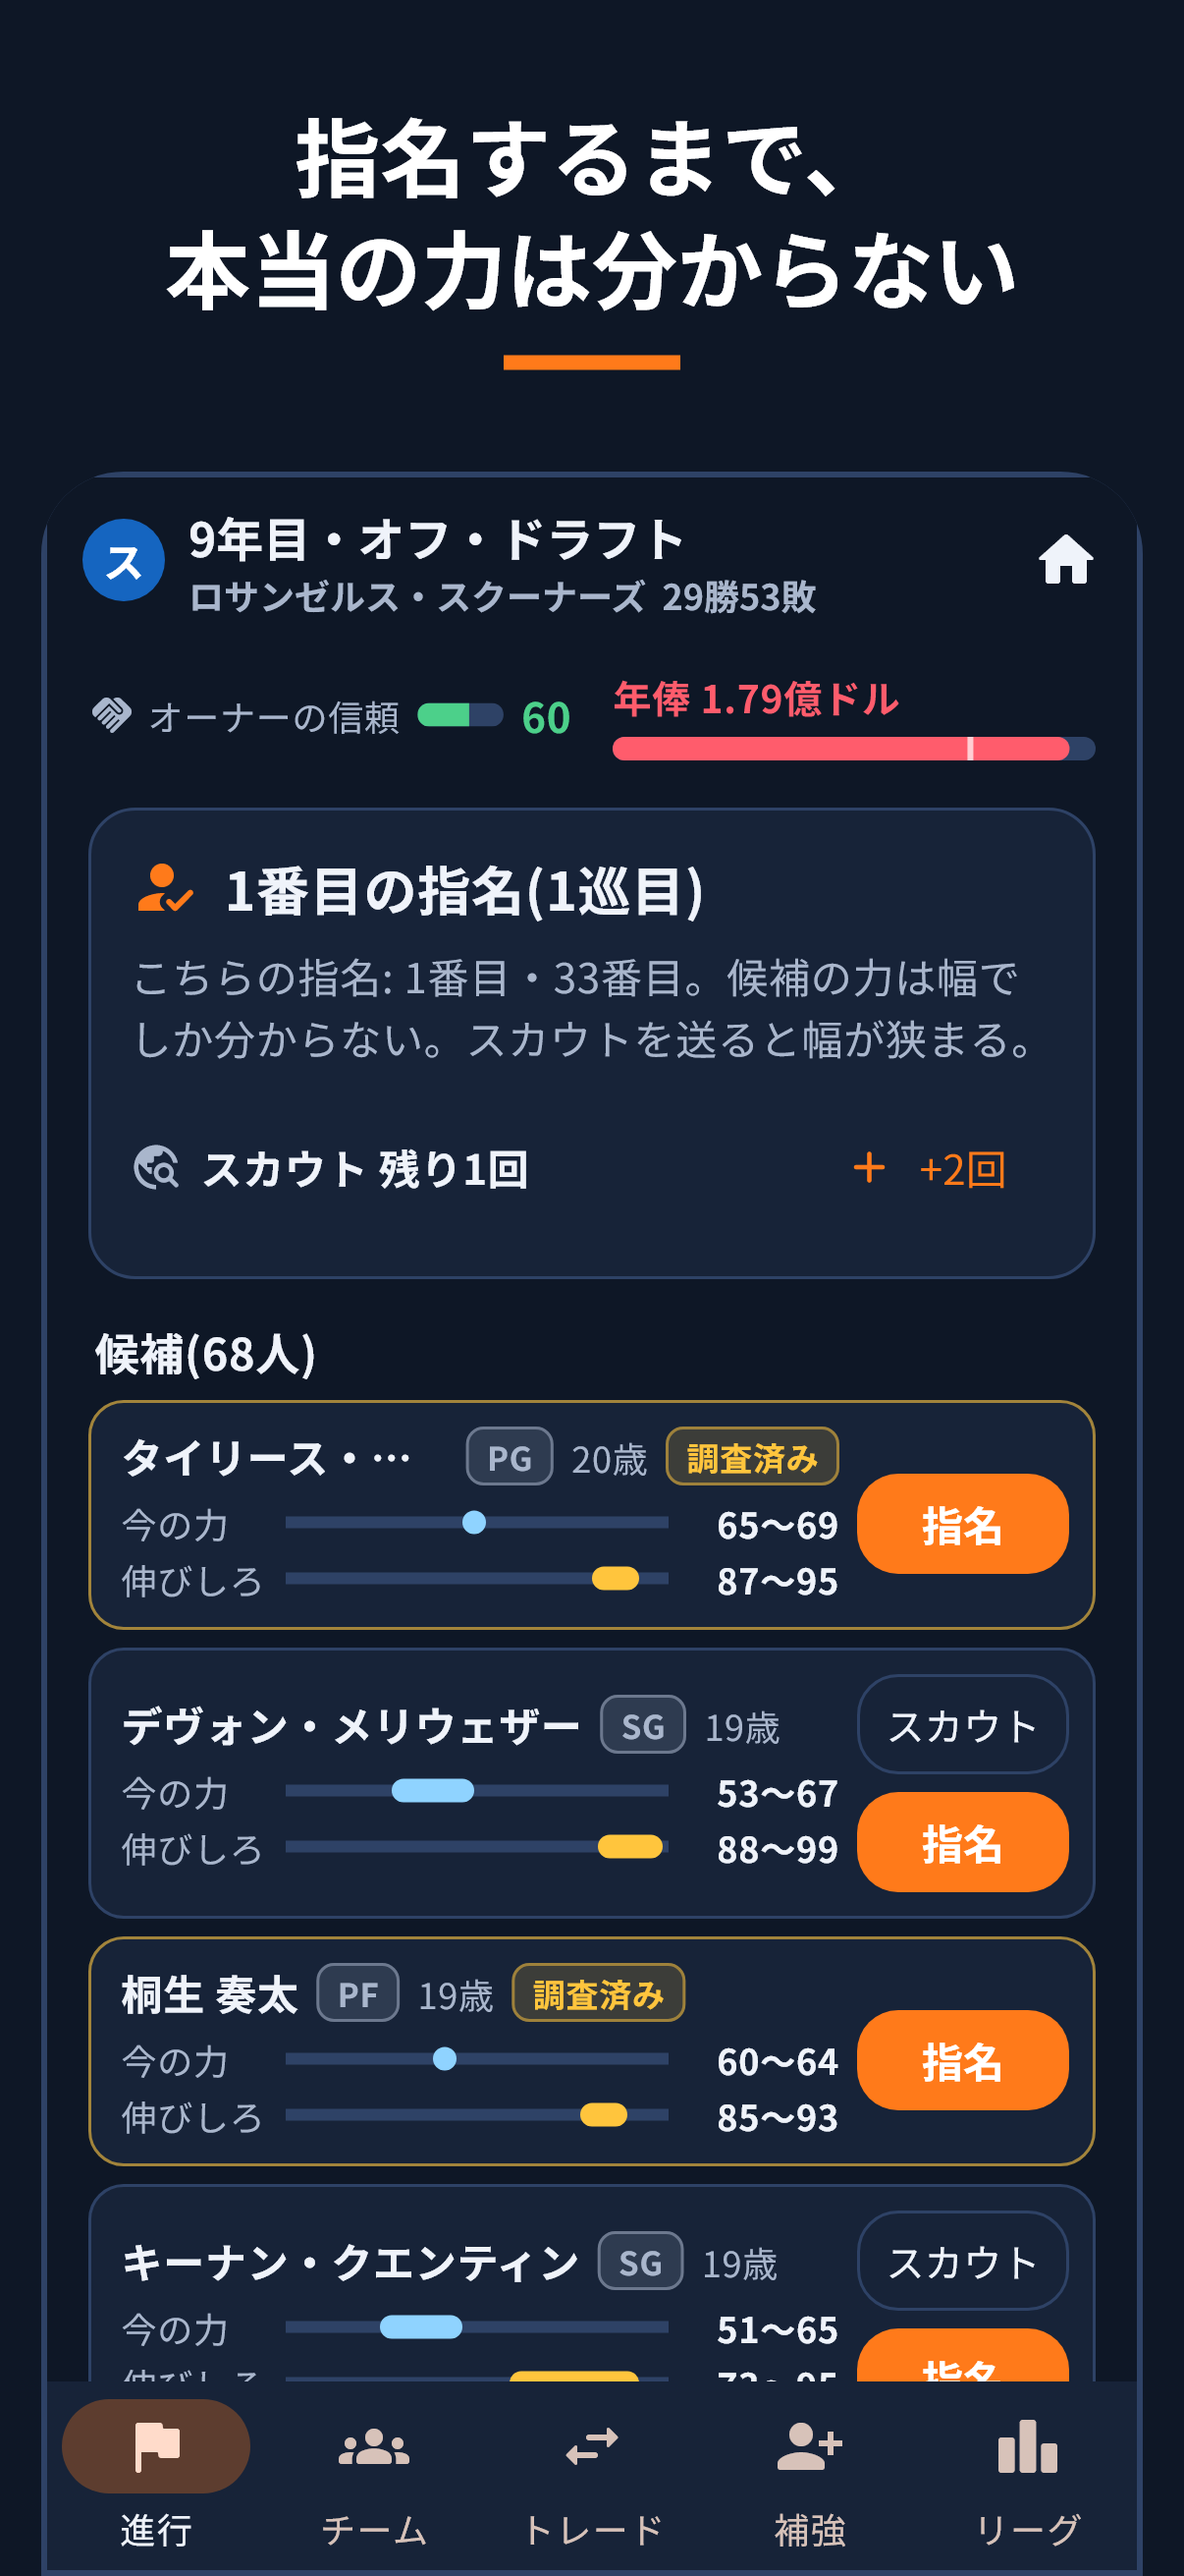
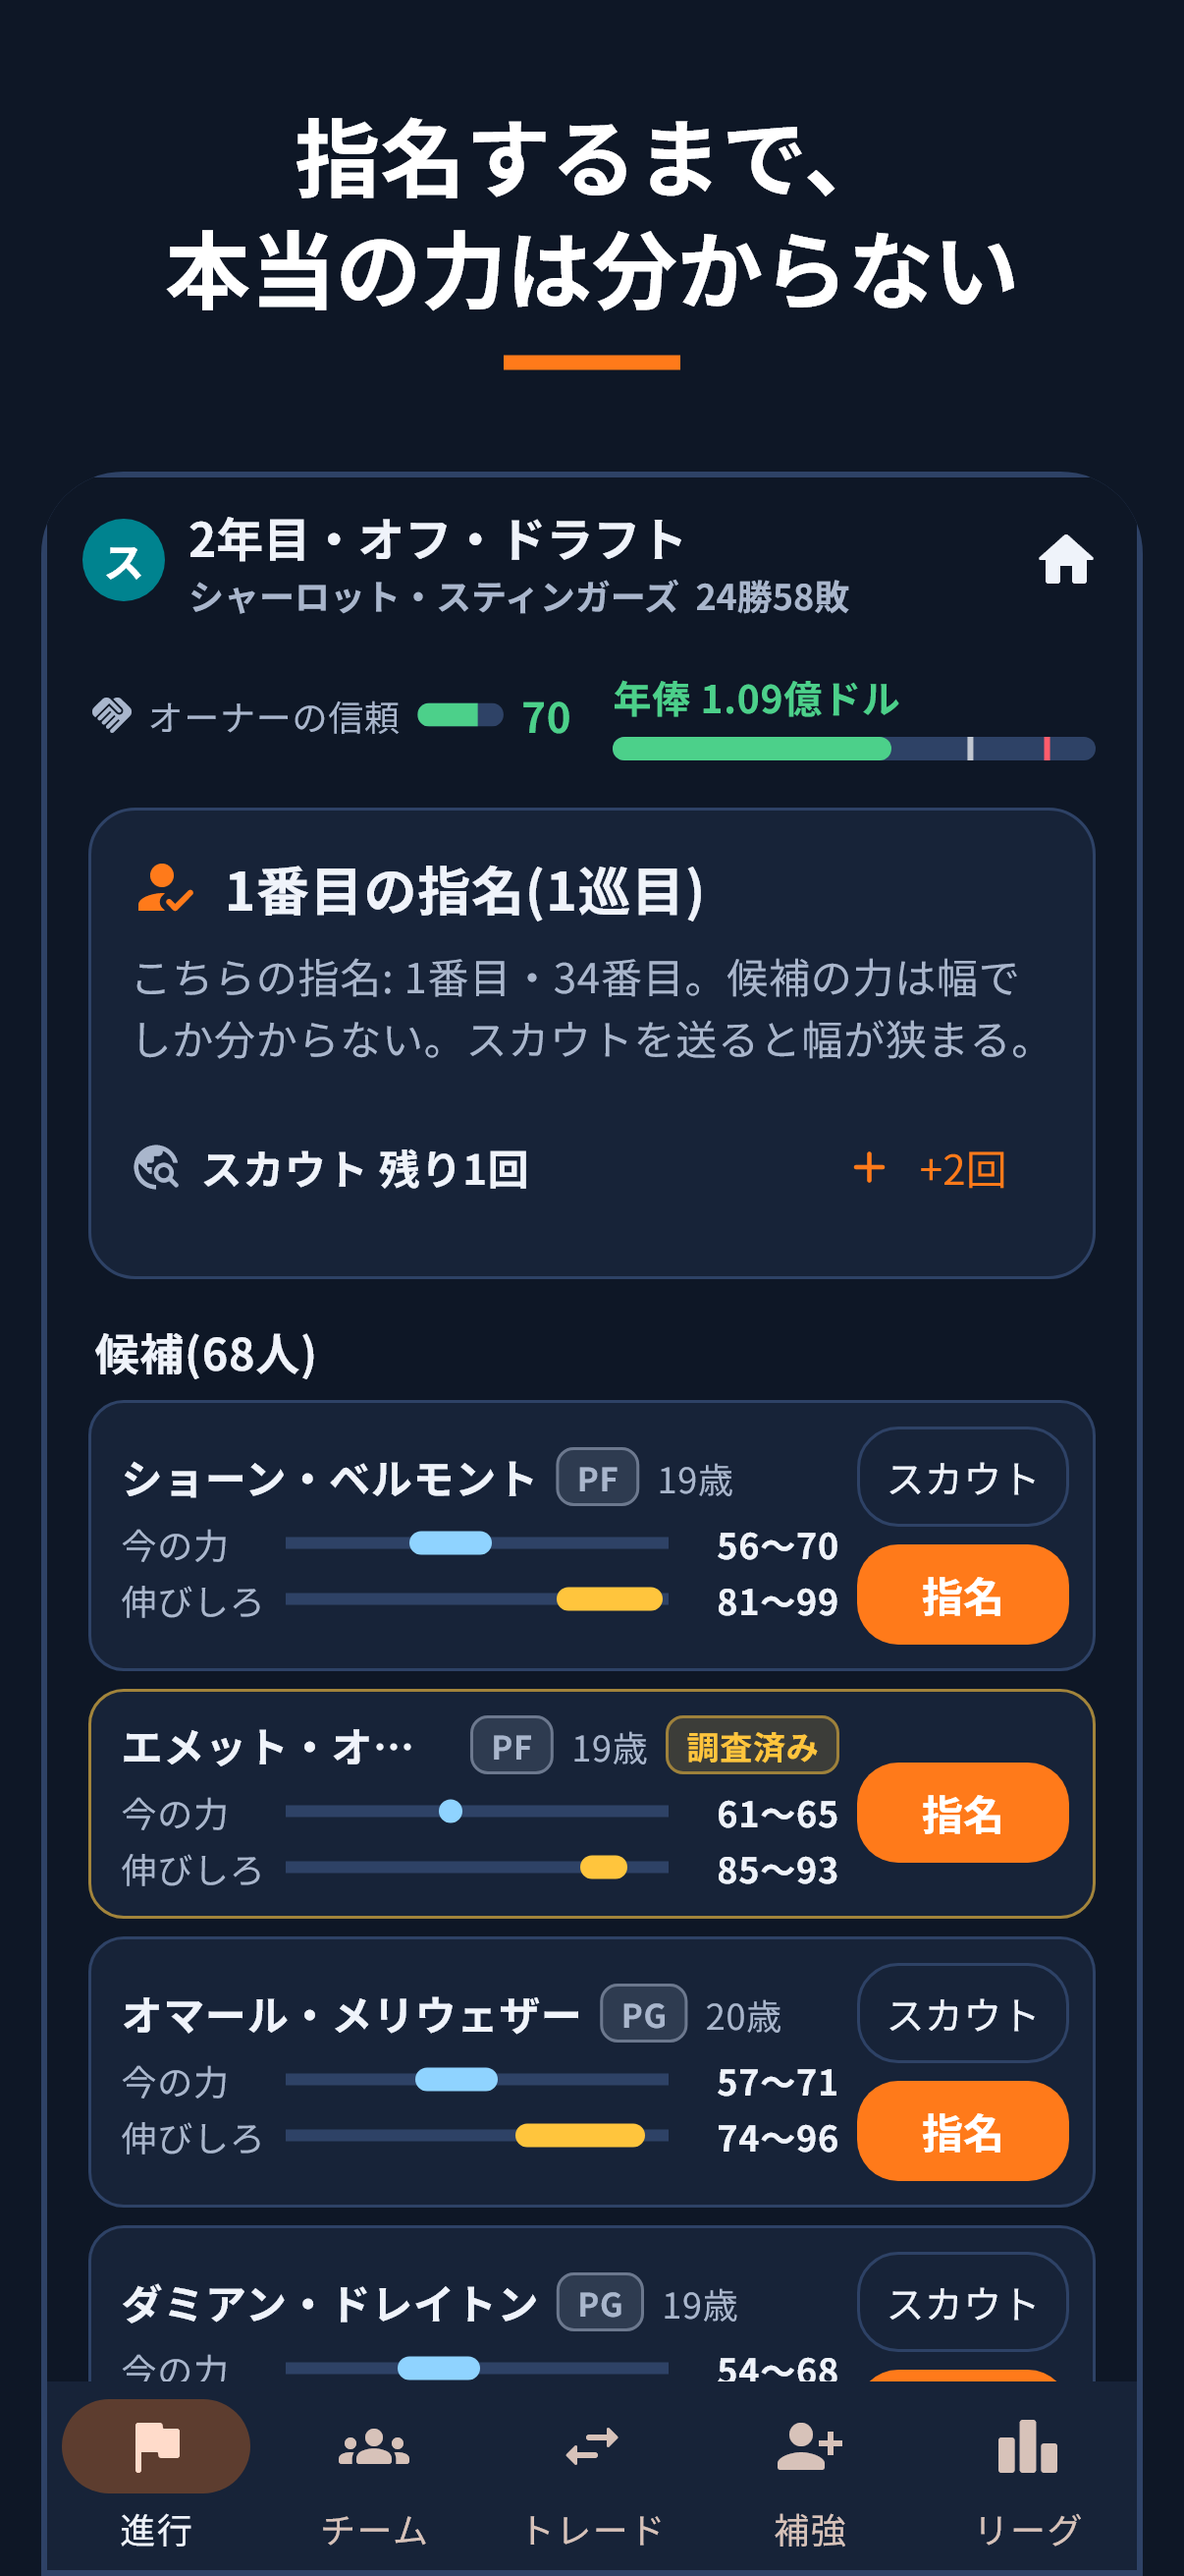
basketball-career: チームのお金(入場料・収支・人気)とオーナーの目標
- 入場料を4段階から選ぶ。観客の入りは人気と値段で決まり、区切りごとに入場収入・放映料と年俸の支出が入る
- ぜいたく税は超えた分の1.5倍を払う。プレーオフのホームの試合も収入になる
- 人気は勝率とプレーオフで動く
- オーナーの目標を毎シーズン3つ(勝ち数・収支を黒字に・プレーオフ/若手を先発に/ぜいたく税を払わない)。シーズン中は見込みの印、果たすと信頼+6、外すと-6

diff --git a/projects/basketball-career/lib/gm/career.dart b/projects/basketball-career/lib/gm/career.dart
@@ -30,6 +30,42 @@ enum Outlook {
               : Outlook.rebuild;
 }
 
+/// 入場料の段階(ドル)。
+const ticketPrices = [70, 100, 140, 180];
+const ticketLabels = ['安い', 'ふつう', '高い', 'とても高い'];
+
+/// 会場の席の数。
+const arenaSeats = 19000;
+
+/// 1シーズンの放映料など、勝ち負けによらない収入(10万ドル)。
+const baseIncome = 900;
+
+/// オーナーの目標の種類。
+enum GoalKind {
+  wins('勝ち数'),
+  profit('収支を黒字にする'),
+  playoffs('プレーオフに出る'),
+  youth('25歳以下を先発に2人'),
+  noTax('ぜいたく税を払わない');
+
+  const GoalKind(this.label);
+  final String label;
+}
+
+/// オーナーの目標1つ。[met] はシーズンの終わりに決まる。
+class OwnerGoal {
+  OwnerGoal(this.kind, {this.met});
+  final GoalKind kind;
+  bool? met;
+
+  Map<String, dynamic> toJson() => {'k': kind.index, if (met != null) 'm': met};
+  static OwnerGoal fromJson(Map<String, dynamic> j) =>
+      OwnerGoal(GoalKind.values[(j['k'] as int).clamp(0, GoalKind.values.length - 1)], met: j['m'] as bool?);
+}
+
+/// 目標を1つ果たすと増え、外すと減る信頼。
+const goalTrust = 6;
+
 /// はじめのオーナーの信頼。
 const startTrust = 50;
 
@@ -205,6 +241,57 @@ class Career {
   TradeOffer? incoming;
 
   int tradesDone = 0;
+
+  /// 人気(0〜100)。勝つ・プレーオフに出ると上がる。観客の入りに効く。
+  int hype = 50;
+
+  /// 入場料の段階([ticketPrices] の番号)。
+  int priceLevel = 1;
+
+  /// 今シーズンの収入と支出(10万ドル)。区切りごとに足していく。
+  int revenue = 0;
+  int costs = 0;
+  int get profit => revenue - costs;
+
+  /// 前のシーズンの収支。
+  int lastProfit = 0;
+
+  /// 今シーズンのオーナーの目標(勝ち数・収支・もう1つ)。
+  List<OwnerGoal> goals = [];
+
+  /// 観客の入り(0.3〜1.0)。人気が高いほど、値段が安いほど入る。
+  double get attendance => (0.55 + hype * 0.0045 - (ticketPrices[priceLevel] - 100) * 0.003).clamp(0.3, 1.0);
+
+  /// 1試合のホームの入場収入(10万ドル)。
+  int get gatePerGame => (arenaSeats * attendance * ticketPrices[priceLevel] / 100000).round();
+
+  void setPrice(int level) {
+    if (phase == Phase.over) return;
+    priceLevel = level.clamp(0, ticketPrices.length - 1);
+  }
+
+  /// 目標が果たせているか(シーズン中は見込み)。
+  bool goalOk(OwnerGoal g) => switch (g.kind) {
+        GoalKind.wins => me.wins >= target,
+        GoalKind.profit => _projectedProfit >= 0,
+        GoalKind.playoffs => confRank <= playInSeeds && (finals == null || myResult >= 1),
+        GoalKind.youth => me.order.take(5).where((p) => p.age <= 25).length >= 2,
+        GoalKind.noTax => me.payroll <= taxLine,
+      };
+
+  /// シーズンの終わりの収支の見込み(残りの試合を今の入りで数える)。
+  int get _projectedProfit {
+    // シーズンを閉じたあと(税もプレーオフの収入も入ったあと)は、そのままの収支
+    if (finals != null) return profit;
+    final left = gamesPerSeason - blockStart(block);
+    final perGameCost = me.payroll / gamesPerSeason;
+    final tax = me.payroll > taxLine ? ((me.payroll - taxLine) * 1.5).round() : 0;
+    final rest = (left / 2 * gatePerGame + baseIncome * left / gamesPerSeason - perGameCost * left).round();
+    return profit + rest - tax;
+  }
+
+  /// シーズンの終わりの収支の見込み(画面用)。
+  int get projectedProfit => _projectedProfit;
 
   /// これまでの表彰(古い順)。
   List<Award> awards = [];
@@ -427,6 +514,12 @@ class Career {
     _setModes();
     final r = strengthRank(mine);
     target = (gamesPerSeason * (0.72 - r * 0.016)).round();
+    revenue = 0;
+    costs = 0;
+    final third = [GoalKind.playoffs, GoalKind.youth, GoalKind.noTax];
+    // 強いチームにはプレーオフ、立て直しには若手、上限を大きく超えたチームには税を
+    final kind = r < 12 ? GoalKind.playoffs : r >= 22 ? GoalKind.youth : me.payroll > taxLine - 50 ? GoalKind.noTax : third[rng.nextInt(third.length)];
+    goals = [OwnerGoal(GoalKind.wins), OwnerGoal(GoalKind.profit), OwnerGoal(kind)];
     block = 0;
     lastGames = [];
     playoffs = [];
@@ -447,6 +540,9 @@ class Career {
       }
     }
     lastGames = games;
+    final homeGames = games.where((g) => g.home == mine).length;
+    revenue += homeGames * gatePerGame + (baseIncome * games.length / gamesPerSeason).round();
+    costs += (me.payroll * games.length / gamesPerSeason).round();
     block++;
     _updateMorale();
     if (block <= tradeDeadlineBlock && rng.chance(0.5)) _aiTrades(1);
@@ -566,7 +662,18 @@ class Career {
   void _closeSeason() {
     final res = myResult;
     lastTax = luxuryTaxTrust(me.payroll);
-    final delta = ((me.wins - target) * 1.5).round() + resultTrust[res] - lastTax;
+    // ぜいたく税は、超えた分の1.5倍を払う。プレーオフのホームの試合も入場収入になる
+    if (me.payroll > taxLine) costs += ((me.payroll - taxLine) * 1.5).round();
+    final poHome = playoffs.where((s) => s.round >= 1 && (s.high == mine || s.low == mine)).fold(0, (n, s) => n + (s.games.where((g) => g.home == mine).length));
+    revenue += poHome * (gatePerGame * 1.5).round();
+    lastProfit = profit;
+    for (final g in goals) {
+      g.met = goalOk(g);
+    }
+    final goalDelta = goals.where((g) => g.kind != GoalKind.wins).fold(0, (n, g) => n + (g.met! ? goalTrust : -goalTrust));
+    // 人気: 勝率とプレーオフで動く
+    hype = (hype + ((me.winPct - 0.5) * 40).round() + const [-4, 3, 6, 9, 12, 16][res]).clamp(0, 100);
+    final delta = ((me.wins - target) * 1.5).round() + resultTrust[res] - lastTax + goalDelta;
     trust = (trust + delta).clamp(0, 100);
     history.add(SeasonRecord(season: season, wins: me.wins, losses: me.losses, rank: confRank, result: res, trustAfter: trust, target: target));
     if (trust <= 0) fired = true;
@@ -998,6 +1105,12 @@ class Career {
         'news': news,
         if (incoming != null) 'inc': incoming!.toJson(),
         'td': tradesDone,
+        'hy': hype,
+        'pl': priceLevel,
+        'rv': revenue,
+        'cs': costs,
+        'lp': lastProfit,
+        'gl': [for (final g in goals) g.toJson()],
         'aw': [for (final a in awards) a.toJson()],
         'log': log,
         'tax': lastTax,
@@ -1038,6 +1151,12 @@ class Career {
       ..news = [for (final x in (j['news'] as List? ?? const [])) x as String]
       ..incoming = j['inc'] == null ? null : TradeOffer.fromJson(Map<String, dynamic>.from(j['inc'] as Map))
       ..tradesDone = (j['td'] as int?) ?? 0
+      ..hype = ((j['hy'] as int?) ?? 50).clamp(0, 100)
+      ..priceLevel = ((j['pl'] as int?) ?? 1).clamp(0, ticketPrices.length - 1)
+      ..revenue = (j['rv'] as int?) ?? 0
+      ..costs = (j['cs'] as int?) ?? 0
+      ..lastProfit = (j['lp'] as int?) ?? 0
+      ..goals = [for (final g in maps('gl')) OwnerGoal.fromJson(g)]
       ..awards = [for (final a in maps('aw')) Award.fromJson(a)]
       ..log = [for (final x in (j['log'] as List? ?? const [])) x as String]
       ..lastTax = (j['tax'] as int?) ?? 0

diff --git a/projects/basketball-career/lib/ui/gm/progress_tab.dart b/projects/basketball-career/lib/ui/gm/progress_tab.dart
@@ -81,6 +81,8 @@ class ProgressTab extends StatelessWidget {
         ],
       ]),
       ..._offerCard(context, car),
+      _goalsCard(car),
+      _moneyCard(car),
     ];
   }
 
@@ -117,12 +119,15 @@ class ProgressTab extends StatelessWidget {
         ),
       ]),
       ..._offerCard(context, car),
+      _goalsCard(car),
+      // 試合の結果を先に見せ、経営はそのあと
       if (car.lastGames.isNotEmpty)
         _card([
           Text('この$last試合: $blockWins勝${last - blockWins}敗', style: const TextStyle(fontWeight: FontWeight.bold, fontSize: 16)),
           const SizedBox(height: 6),
           for (final g in car.lastGames) GameRow(g: g, mine: car.mine),
         ]),
+      _moneyCard(car),
     ];
   }
 
@@ -153,6 +158,51 @@ class ProgressTab extends StatelessWidget {
       ]),
     ];
   }
+
+  /// オーナーの目標(シーズン中は、いまの見込みで印を付ける)。
+  Widget _goalsCard(Career car) {
+    if (car.goals.isEmpty || car.phase != Phase.season) return const SizedBox.shrink();
+    return _card([
+      _head('オーナーの目標', icon: Icons.checklist_rounded),
+      const SizedBox(height: 6),
+      for (final g in car.goals)
+        Padding(
+          padding: const EdgeInsets.symmetric(vertical: 3),
+          child: Row(children: [
+            Icon(car.goalOk(g) ? Icons.check_circle_rounded : Icons.radio_button_unchecked_rounded,
+                size: 18, color: car.goalOk(g) ? GmColors.good : GmColors.sub),
+            const SizedBox(width: 8),
+            Expanded(child: Text(g.kind == GoalKind.wins ? '${car.target}勝する(いま${car.me.wins}勝)' : g.kind.label)),
+          ]),
+        ),
+      const SizedBox(height: 4),
+      Text('果たすと信頼が+$goalTrust、外すと-$goalTrust(勝ち数は差の1.5倍)。', style: const TextStyle(fontSize: 12, color: GmColors.sub)),
+    ]);
+  }
+
+  /// 入場料・観客の入り・人気・収支。
+  Widget _moneyCard(Career car) => _card([
+        _head('経営', icon: Icons.account_balance_rounded),
+        const SizedBox(height: 8),
+        const Text('入場料', style: TextStyle(color: GmColors.sub, fontSize: 13)),
+        const SizedBox(height: 4),
+        SegmentedButton<int>(
+          showSelectedIcon: false,
+          segments: [
+            for (var i = 0; i < ticketPrices.length; i++)
+              ButtonSegment(value: i, label: Text('${ticketLabels[i]}\n\$${ticketPrices[i]}', textAlign: TextAlign.center, style: const TextStyle(fontSize: 12))),
+          ],
+          selected: {car.priceLevel},
+          onSelectionChanged: (v) => c.setPrice(v.first),
+        ),
+        const SizedBox(height: 8),
+        _kv('観客の入り', '${(car.attendance * 100).round()}%(1試合 ${money(car.gatePerGame)})'),
+        _kv('人気', '${car.hype}'),
+        _kv('今季の収支', '${car.profit >= 0 ? '+' : ''}${money(car.profit)}(見込み ${car.projectedProfit >= 0 ? '+' : ''}${money(car.projectedProfit)})',
+            color: car.projectedProfit >= 0 ? GmColors.good : GmColors.bad),
+        const Text('人気が高いほど、入場料が安いほど客が入る。人気は勝ちとプレーオフで上がる。ぜいたく税は超えた分の1.5倍を払う。',
+            style: TextStyle(fontSize: 12, color: GmColors.sub, height: 1.4)),
+      ]);
 
   // ------------------------------------------------------------ プレーオフ
 
@@ -227,6 +277,10 @@ class ProgressTab extends StatelessWidget {
             color: h.wins >= h.target ? GmColors.good : GmColors.bad),
         _kv('プレーオフ', '${h.resultLabel}  ${_signed(resultTrust[h.result])}'),
         if (car.lastTax > 0) _kv('ぜいたく税', '年俸が${money(taxLine)}を超えた  ${_signed(-car.lastTax)}', color: GmColors.bad),
+        for (final g in car.goals.where((g) => g.kind != GoalKind.wins))
+          _kv(g.kind.label, '${g.met == true ? '果たした' : '果たせなかった'}  ${_signed(g.met == true ? goalTrust : -goalTrust)}',
+              color: g.met == true ? GmColors.good : GmColors.bad),
+        _kv('収支', '${car.lastProfit >= 0 ? '+' : ''}${money(car.lastProfit)}(人気 ${car.hype})', color: car.lastProfit >= 0 ? GmColors.good : GmColors.bad),
         const Divider(height: 18),
         _kv('信頼', '${car.trust}(${_signed(car.lastTrustDelta)})', color: car.trust >= 30 ? null : GmColors.bad),
       ]),

diff --git a/projects/basketball-career/test/gm/career_test.dart b/projects/basketball-career/test/gm/career_test.dart
@@ -313,6 +313,53 @@ void main() {
     });
   });
 
+  group('お金とオーナーの目標', () {
+    test('入場料が高いほど客は減る。人気が高いほど入る', () {
+      final c = careerAt(2, 10);
+      c.setPrice(0);
+      final cheap = c.attendance;
+      c.setPrice(3);
+      expect(c.attendance, lessThan(cheap));
+      c.hype = 90;
+      final hot = c.attendance;
+      c.hype = 10;
+      expect(c.attendance, lessThan(hot));
+    });
+
+    test('区切りごとに収入と年俸の支出が入り、シーズンの終わりに目標の結果と収支が決まる', () {
+      final c = careerAt(2, 10)..startSeason();
+      expect(c.goals, hasLength(3));
+      expect(c.goals.first.kind, GoalKind.wins);
+      expect(c.goals[1].kind, GoalKind.profit);
+      c.playBlock();
+      expect(c.revenue, greaterThan(0));
+      expect(c.costs, greaterThan(0));
+      while (c.phase == Phase.season) {
+        c.playBlock();
+      }
+      c.playPlayoffs();
+      expect(c.goals.every((g) => g.met != null), isTrue);
+      expect(c.lastProfit, c.profit);
+      final copy = Career.fromJson(jsonDecode(jsonEncode(c.toJson())) as Map<String, dynamic>);
+      expect(copy.goals.map((g) => g.met), c.goals.map((g) => g.met));
+      expect(copy.hype, c.hype);
+    });
+
+    test('ぜいたく税の線を超えたチームは、超えた分の1.5倍を支出に払う', () {
+      final c = careerAt(2, 0);
+      // 税の線を100だけ超える(合計の上限よりは下)
+      c.me.roster.first.salary += taxLine + 100 - c.me.payroll;
+      c.startSeason();
+      expect(c.phase, Phase.season);
+      while (c.phase == Phase.season) {
+        c.playBlock();
+      }
+      final before = c.costs;
+      c.playPlayoffs();
+      expect(c.costs - before, ((c.me.payroll - taxLine) * 1.5).round());
+    });
+  });
+
   group('相手に聞く・相手同士のトレード・ニュース', () {
     test('受け取りたい選手を選ぶと、相手が受ける出し方が返り、そのまま成立する', () {
       var found = 0;

diff --git a/projects/basketball-career/lib/ui/gm_controller.dart b/projects/basketball-career/lib/ui/gm_controller.dart
@@ -176,6 +176,7 @@ class GmController extends ChangeNotifier {
   void release(int id) => _act((c) => c.release(id));
   void finishContracts() => _act((c) => c.finishContracts());
   void setRotation(List<int> ids) => _act((c) => c.setRotation(ids));
+  void setPrice(int level) => _act((c) => c.setPrice(level));
   void acceptIncoming() => _act((c) => c.acceptIncoming());
   void declineIncoming() => _act((c) => c.declineIncoming());
 

diff --git a/projects/basketball-career/test/ui/app_test.dart b/projects/basketball-career/test/ui/app_test.dart
@@ -63,6 +63,7 @@ void main() {
     await tester.pumpAndSettle();
     await _closeDialogs(tester);
     expect(c.career!.block, 1);
+    await tester.scrollUntilVisible(find.textContaining('この20試合'), 300, scrollable: _vertical);
     expect(find.textContaining('この20試合'), findsOneWidget);
   });
 
